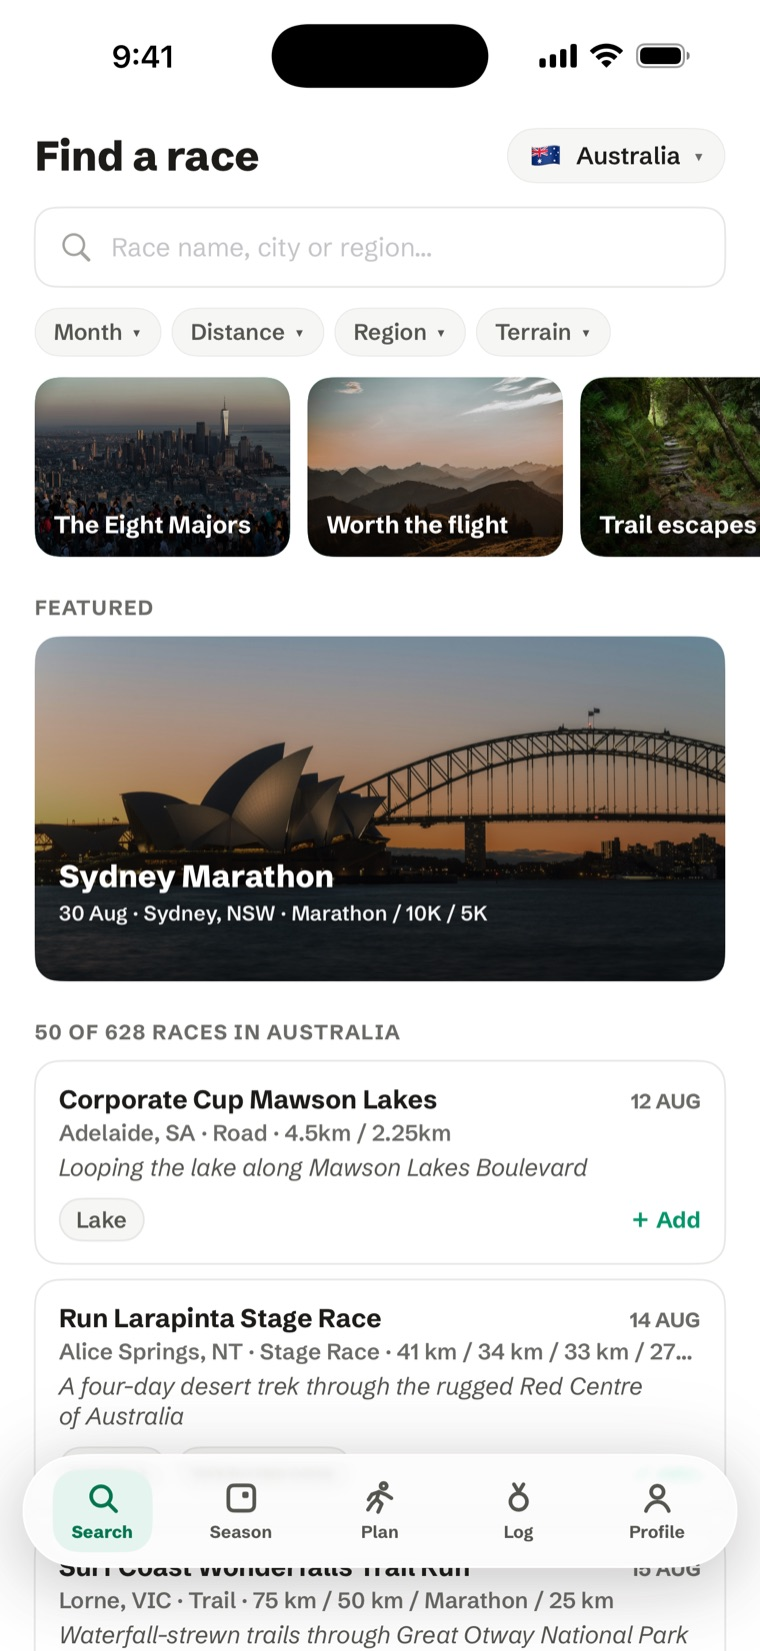
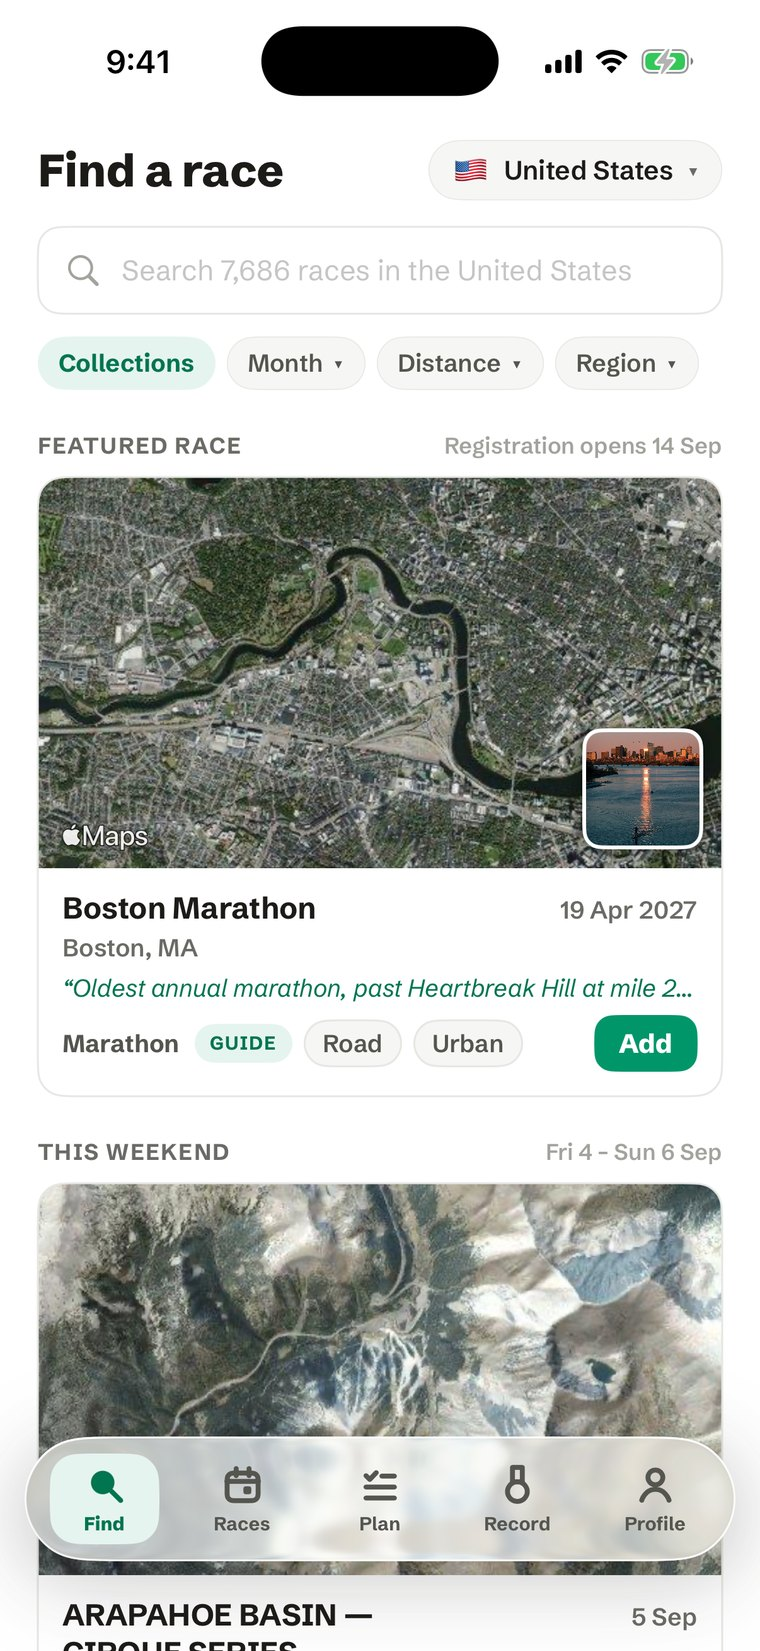
8.2.0 refresh: new screenshots, 13,000 races / 126 countries, About + footers without NZ, record not log, US$9.99

diff --git a/index.html b/index.html
@@ -4,12 +4,12 @@
 <meta charset="UTF-8">
 <meta name="viewport" content="width=device-width, initial-scale=1.0">
 <title>RunCalendar — Run. Race. Record. Remember. My Goal.</title>
-<meta name="description" content="From the day you find the race to the day you cross the line — the season, the training, the reminders, the memory. 11,000+ races in 125 countries, every one shown from above. Free on iPhone.">
+<meta name="description" content="From the day you find the race to the day you cross the line — the season, the training, the reminders, the memory. 13,000+ races in 126 countries, every one shown from above. Free on iPhone.">
 <link rel="canonical" href="https://runcalendar.com/">
 <meta property="og:type" content="website">
 <meta property="og:site_name" content="RunCalendar">
 <meta property="og:title" content="RunCalendar — Run. Race. Record. Remember. My Goal.">
-<meta property="og:description" content="One app for the whole journey: 11,000+ races in 125 countries, a season with one gold peak, a training plan that knows your races, and every finish line remembered.">
+<meta property="og:description" content="One app for the whole journey: 13,000+ races in 126 countries, a season with one gold peak, a training plan that knows your races, and every finish line remembered.">
 <meta property="og:url" content="https://runcalendar.com/">
 <meta property="og:image" content="https://runcalendar.com/assets/og.jpg">
 <meta name="twitter:card" content="summary_large_image">
@@ -168,11 +168,11 @@
       <a class="appstore" href="https://apps.apple.com/app/id6726998429"><span class="apple">&#63743;</span><span class="txt"><span class="s">Download on the</span><br><span class="b">App Store</span></span></a>
       <span class="freeline">Free on iPhone</span>
     </div>
-    <div class="statline"><span><b>11,000+</b> races</span><span class="dot">·</span><span><b>125</b> countries</span><span class="dot">·</span><span><b>1</b> gold peak — yours</span></div>
+    <div class="statline"><span><b>13,000+</b> races</span><span class="dot">·</span><span><b>126</b> countries</span><span class="dot">·</span><span><b>1</b> gold peak — yours</span></div>
   </div>
 
   <div class="hphone"><div class="phone"><div class="screen">
-    <img src="/assets/hero-feed.jpg" alt="RunCalendar's Find a race feed for Australia — the featured Sydney Marathon over its harbour photo, above a calendar of real races" width="760" height="1651">
+    <img src="/assets/hero-feed.jpg" alt="RunCalendar's Find a race feed for the United States — the featured Boston Marathon seen from above, then the weekend's races, each on its own satellite picture" width="760" height="1651">
   </div></div></div>
 </div></section>
 
@@ -182,15 +182,15 @@
     <div class="sattext">
       <span class="k">The view from up here</span>
       <h2>Every race.<br><span class="g">Seen from above.</span></h2>
-      <p>Open any race and the first thing you see is <b>its real place</b> — satellite imagery of the bay you'll round, the desert you'll cross, the mountains that will keep you company. The actual course country, from space.</p>
-      <p>Eleven thousand races, and every single one shows you where you're going. <b>Pick the view you want to earn.</b></p>
+      <p>The calendar itself is the view: every race card is <b>its real place</b>, seen from above — the bay you'll round, the desert you'll cross, the mountains that will keep you company. Open the race and the picture opens with it.</p>
+      <p>Thirteen thousand races, and every single one shows you where you're going. <b>Pick the view you want to earn.</b></p>
     </div>
     <div class="satphones">
       <div class="phone p1"><div class="screen">
-        <img src="/assets/sat-first-light.jpg" alt="First Light Marathon in RunCalendar — Gisborne's coastline from space above the race's details" width="593" height="1290">
+        <img src="/assets/sat-first-light.jpg" alt="First Light Marathon in RunCalendar — Gisborne's coastline from space above the race's course and key dates" width="593" height="1290">
       </div></div>
       <div class="phone p2"><div class="screen">
-        <img src="/assets/sat-larapinta.jpg" alt="Run Larapinta Stage Race in RunCalendar — the red MacDonnell Ranges from space above the race's details" width="593" height="1290">
+        <img src="/assets/sat-larapinta.jpg" alt="Run Larapinta Stage Race in RunCalendar — the red MacDonnell Ranges from space above the race's course and stages" width="593" height="1290">
       </div></div>
     </div>
   </div>
@@ -206,10 +206,10 @@
     <div class="jtext">
       <div class="jnum">01 · Find</div>
       <h3>Find the races worth circling</h3>
-      <p>A clean calendar of every race in your country — honest dates, real distances, courses shown from above. Guides on the races worth travelling for, collections to browse when you're dreaming. Travelling? <b>Switch to any of 125 countries.</b></p>
+      <p>A calendar of every race in your country, each one shown from above — honest dates, real distances, the course described before you commit. Guides on the races worth travelling for, collections to browse when you're dreaming. Travelling? <b>Switch to any of 126 countries.</b></p>
     </div>
     <div class="jphone"><div class="phone"><div class="screen">
-      <img src="/assets/find-us-search.jpg" alt="Searching the United States calendar in RunCalendar — Bound for Boston's satellite card leads the results" width="760" height="1651">
+      <img src="/assets/find-us-search.jpg" alt="Searching the United States calendar in RunCalendar for Boston — the Boston Marathon leads the results" width="760" height="1651">
     </div></div></div>
   </div>
 
@@ -220,7 +220,7 @@
       <p>The race that matters most gets the gold. Everything else finds its place around it — a lead-up that sharpens you, a wildcard for the fun of it, an <b>interested</b> that's allowed to stay a dream. The moment you choose, <b>your season has a shape.</b></p>
     </div>
     <div class="jphone"><div class="phone"><div class="screen">
-      <img src="/assets/season.jpg" alt="A RunCalendar season — lead-up races building to the gold Queenstown Marathon peak, wildcards beyond it" width="760" height="1651">
+      <img src="/assets/season.jpg" alt="A RunCalendar season — Sydney Marathon completed, Cedar City and Chicago on the way to the gold Queenstown Marathon peak, wildcards beyond it" width="760" height="1651">
     </div></div></div>
   </div>
 
@@ -228,10 +228,10 @@
     <div class="jtext">
       <div class="jnum">03 · Train</div>
       <h3>Train with a plan that knows your races</h3>
-      <p>Built to your peak and your week — your days, your long-run day, your pace. Lead-up races slot in as the week's hard session. A hilly walk-run still counts. <b>Every session tells you why it's there</b>, and the plan works fully before you grant a single permission.</p>
+      <p>Built to your peak and your week — your days, your long-run day, your pace. Lead-up races slot in as the week's hard session. A walk still counts if you say so. <b>Your first four weeks are free</b>, and the plan works fully before you grant a single permission.</p>
     </div>
     <div class="jphone"><div class="phone"><div class="screen">
-      <img src="/assets/plan.jpg" alt="A RunCalendar training plan — week 1 of a 14-week marathon build with today's session and paces" width="760" height="1651">
+      <img src="/assets/plan.jpg" alt="A RunCalendar training plan — week 10 of a 20-week marathon build with today's session" width="760" height="1651">
     </div></div></div>
   </div>
 
@@ -239,7 +239,7 @@
     <div class="jtext">
       <div class="jnum">04 · Remember</div>
       <h3>Every finish line, remembered</h3>
-      <p>Race day disappears fast — the weather, the hurt, the stranger you high-fived at 30k. The log keeps it: your time, your words while they're still true, and one great photo. Years from now, a season of start lines becomes <b>the story of your running.</b></p>
+      <p>Race day disappears fast — the weather, the hurt, the stranger you high-fived at 30k. Your record keeps it: your time, your words while they're still true, and one great photo. Years from now, a season of start lines becomes <b>the story of your running.</b></p>
     </div>
     <div class="jphone"><div class="phone"><div class="screen">
       <img src="/assets/memory.jpg" alt="A race memory in RunCalendar — Lake Wakatipu photo over the Queenstown Half Marathon's time and note" width="760" height="1652">
@@ -254,7 +254,7 @@
     <div class="pitem"><span class="tk">✓</span><span class="tx"><b>A season, not a list.</b> One gold peak, and every other race finds its place around it. Your year gets a shape you can feel.</span></div>
     <div class="pitem"><span class="tk">✓</span><span class="tx"><b>The official entry, every time.</b> One tap to the race's own entry page — the real price, the real spots, nothing in between.</span></div>
     <div class="pitem"><span class="tk">✓</span><span class="tx"><b>Reminders that matter.</b> Registration opening, closing soon, dates confirming, race week — the quiet stuff that gets you to more start lines.</span></div>
-    <div class="pitem"><span class="tk">✓</span><span class="tx"><b>Private by default.</b> Fully yours before you grant a single permission. Health sync is a bonus you switch on — and everything you log stays yours.</span></div>
+    <div class="pitem"><span class="tk">✓</span><span class="tx"><b>Private by default.</b> Fully yours before you grant a single permission. Health sync is a bonus you switch on — read-only, never written — and everything you record stays yours.</span></div>
     <div class="pitem"><span class="tk">✓</span><span class="tx"><b>Honest dates.</b> A confirmed date shows its day; a provisional one shows just the month — the app never claims a day it doesn't have.</span></div>
     <div class="pitem"><span class="tk">✓</span><span class="tx"><b>Guides worth the trip.</b> Course-by-course features on the world's great races, written like a runner talks — where you'll feel it, what to wear, whether it's worth the flight.</span></div>
   </div>
@@ -264,8 +264,8 @@
 <section class="pricing wrap">
   <h2 class="sech">Honest <span class="g">pricing</span></h2>
   <div class="prow">
-    <div class="pcard"><div class="pv">$0</div><div class="pl">Forever</div><p>Every race, your whole season, the race log, guides, reminders — and the first four weeks of any training plan.</p></div>
-    <div class="pcard gold"><div class="pv">$9.99</div><div class="pl">Once · when you're hooked</div><p>Opens the rest of your plan, all the way to your peak's start line. One race journey, one small price.</p></div>
+    <div class="pcard"><div class="pv">$0</div><div class="pl">Forever</div><p>Every race, your whole season, your record, guides, reminders — and the first four weeks of any training plan.</p></div>
+    <div class="pcard gold"><div class="pv">US$9.99</div><div class="pl">Once · when you're hooked</div><p>Opens the rest of your plan, all the way to your peak's start line. One race journey, one small price — shown in your own currency in the App Store.</p></div>
   </div>
   <p class="honest">That's the whole price. <b>Everything else is yours from the first download.</b></p>
 </section>
@@ -286,7 +286,7 @@
 </div>
 
 <footer><div class="wrap fin">
-  <div>© 2026 RunCalendar · Net Project Limited · Aotearoa New Zealand</div>
+  <div>© 2026 RunCalendar · Net Project Limited</div>
   <div class="flinks"><a href="/about/">About</a><a href="/contact/">Contact</a><a href="/add-event/">Add your event</a><a href="/privacy/">Privacy</a><a href="/terms/">Terms</a></div>
 </div></footer>
 

diff --git a/about/index.html b/about/index.html
@@ -4,14 +4,14 @@
 <meta charset="UTF-8">
 <meta name="viewport" content="width=device-width, initial-scale=1.0">
 <title>About — RunCalendar</title>
-<meta name="description" content="RunCalendar is built in Aotearoa New Zealand by the team behind a decade of race-day apps for some of the world's biggest running events. One question behind every decision: does this help a runner get to a start line?">
+<meta name="description" content="RunCalendar is built by the team behind a decade of race-day apps for some of the world's biggest running events. One question behind every decision: does this help a runner get to a start line?">
 <link rel="canonical" href="https://runcalendar.com/about/">
 <link rel="icon" href="/assets/appicon-64.png" type="image/png">
 <link rel="apple-touch-icon" href="/assets/appicon-180.png">
 <meta property="og:type" content="website">
 <meta property="og:site_name" content="RunCalendar">
 <meta property="og:title" content="About — RunCalendar">
-<meta property="og:description" content="RunCalendar is built in Aotearoa New Zealand by the team behind a decade of race-day apps for some of the world's biggest running events. One question behind every decision: does this help a runner get to a start line?">
+<meta property="og:description" content="RunCalendar is built by the team behind a decade of race-day apps for some of the world's biggest running events. One question behind every decision: does this help a runner get to a start line?">
 <meta property="og:url" content="https://runcalendar.com/about/">
 <meta property="og:image" content="https://runcalendar.com/assets/og.jpg">
 <link href="https://fonts.googleapis.com/css2?family=Schibsted+Grotesk:wght@400..900&display=swap" rel="stylesheet">
@@ -26,18 +26,18 @@
 
 <div class="pagehead wrap">
   <h1>Ten years of race days.<br><span class="g">One app of our own.</span></h1>
-  <p class="sub">RunCalendar is built by Net Project Limited in Aotearoa New Zealand — the team that spent a decade building race-day apps for some of the world's biggest running events. Every decision still answers one question: <b>does this help a runner get to a start line?</b></p>
+  <p class="sub">RunCalendar is built by Net Project Limited — the team that spent a decade building race-day apps for some of the world's biggest running events. Every decision still answers one question: <b>does this help a runner get to a start line?</b></p>
 </div>
 
 <div class="content">
   <h2>What we believe</h2>
   <p><b>The journey is the product.</b> A race isn't a listing — it's months of your life. Finding it, committing to it, training for it, remembering it. RunCalendar is built around that whole arc, not just the search box at the start of it.</p>
-  <p><b>The whole calendar, honestly.</b> Over eleven thousand races across 125 countries — every one visible, every one searchable. Editorial care goes into what we recommend, never into what we let you see.</p>
+  <p><b>The whole calendar, honestly.</b> Over thirteen thousand races across 126 countries — every one visible, every one searchable. Editorial care goes into what we recommend, never into what we let you see.</p>
   <p><b>Honesty about the details.</b> A confirmed date shows its day; a provisional one shows only its month, because we won't claim a day we don't have. Every race links to its official entry page — the real price, nothing in between.</p>
   <p><b>Private by default.</b> The app works fully before you grant a single permission. No ads, no data selling, no tracking you across the internet. Your season, your log, your photos — yours.</p>
 
   <h2>Where RunCalendar came from</h2>
-  <p>We were building apps for major running events before most events knew they wanted one — race-day information in your pocket, athlete tracking, the roar of a finish chute pushed to a spectator's phone. Ten years of start lines taught us what no market report can: what runners actually need, and exactly when they need it. RunCalendar is everything those years taught us, poured into a product that answers to runners alone. New Zealand is a fitting home for it — the country of Lydiard, Snell and Walker, where modern distance training was invented. Today it's the full season companion: the world's calendar, a season planner with one gold peak at its centre, training plans built to your races, and a race log that remembers every finish line the way you'll want to remember it in ten years.</p>
+  <p>We were building apps for major running events before most events knew they wanted one — race-day information in your pocket, athlete tracking, the roar of a finish chute pushed to a spectator's phone. Ten years of start lines taught us what no market report can: what runners actually need, and exactly when they need it. RunCalendar is everything those years taught us, poured into a product that answers to runners alone. Today it's the full season companion: the world's calendar, a season planner with one gold peak at its centre, training plans built to your races, and a record that remembers every finish line the way you'll want to remember it in ten years.</p>
 
   <h2>The other side of the start line</h2>
   <p>We work with event organisers the same way we work for runners: honestly and simply. Listings are free, always. Organisers can <a href="/add-event/" style="color:var(--green); font-weight:700; text-decoration:none;">add an event</a> or claim an existing listing to keep its details confirmed at the source — that's what the "Confirmed by organiser" badge in the app means.</p>
@@ -47,7 +47,7 @@
 </div>
 
 <footer><div class="wrap fin">
-  <div>© 2026 RunCalendar · Net Project Limited · Aotearoa New Zealand</div>
+  <div>© 2026 RunCalendar · Net Project Limited</div>
   <div class="flinks"><a href="/about/">About</a><a href="/contact/">Contact</a><a href="/add-event/">Add your event</a><a href="/privacy/">Privacy</a><a href="/terms/">Terms</a></div>
 </div></footer>
 

diff --git a/404.html b/404.html
@@ -32,7 +32,7 @@
 </div>
 
 <footer><div class="wrap fin">
-  <div>© 2026 RunCalendar · Net Project Limited · Aotearoa New Zealand</div>
+  <div>© 2026 RunCalendar · Net Project Limited</div>
   <div class="flinks"><a href="/about/">About</a><a href="/contact/">Contact</a><a href="/add-event/">Add your event</a><a href="/privacy/">Privacy</a><a href="/terms/">Terms</a></div>
 </div></footer>
 

diff --git a/add-event/index.html b/add-event/index.html
@@ -74,7 +74,7 @@
 </div>
 
 <footer><div class="wrap fin">
-  <div>© 2026 RunCalendar · Net Project Limited · Aotearoa New Zealand</div>
+  <div>© 2026 RunCalendar · Net Project Limited</div>
   <div class="flinks"><a href="/about/">About</a><a href="/contact/">Contact</a><a href="/add-event/">Add your event</a><a href="/privacy/">Privacy</a><a href="/terms/">Terms</a></div>
 </div></footer>
 

diff --git a/claim-confirm/index.html b/claim-confirm/index.html
@@ -40,7 +40,7 @@
 </div>
 
 <footer><div class="wrap fin">
-  <div>© 2026 RunCalendar · Net Project Limited · Aotearoa New Zealand</div>
+  <div>© 2026 RunCalendar · Net Project Limited</div>
   <div class="flinks"><a href="/about/">About</a><a href="/contact/">Contact</a><a href="/add-event/">Add your event</a><a href="/privacy/">Privacy</a><a href="/terms/">Terms</a></div>
 </div></footer>
 

diff --git a/claim/index.html b/claim/index.html
@@ -68,7 +68,7 @@
 </div>
 
 <footer><div class="wrap fin">
-  <div>© 2026 RunCalendar · Net Project Limited · Aotearoa New Zealand</div>
+  <div>© 2026 RunCalendar · Net Project Limited</div>
   <div class="flinks"><a href="/about/">About</a><a href="/contact/">Contact</a><a href="/add-event/">Add your event</a><a href="/privacy/">Privacy</a><a href="/terms/">Terms</a></div>
 </div></footer>
 

diff --git a/contact/index.html b/contact/index.html
@@ -44,7 +44,7 @@
 </div>
 
 <footer><div class="wrap fin">
-  <div>© 2026 RunCalendar · Net Project Limited · Aotearoa New Zealand</div>
+  <div>© 2026 RunCalendar · Net Project Limited</div>
   <div class="flinks"><a href="/about/">About</a><a href="/contact/">Contact</a><a href="/add-event/">Add your event</a><a href="/privacy/">Privacy</a><a href="/terms/">Terms</a></div>
 </div></footer>
 
